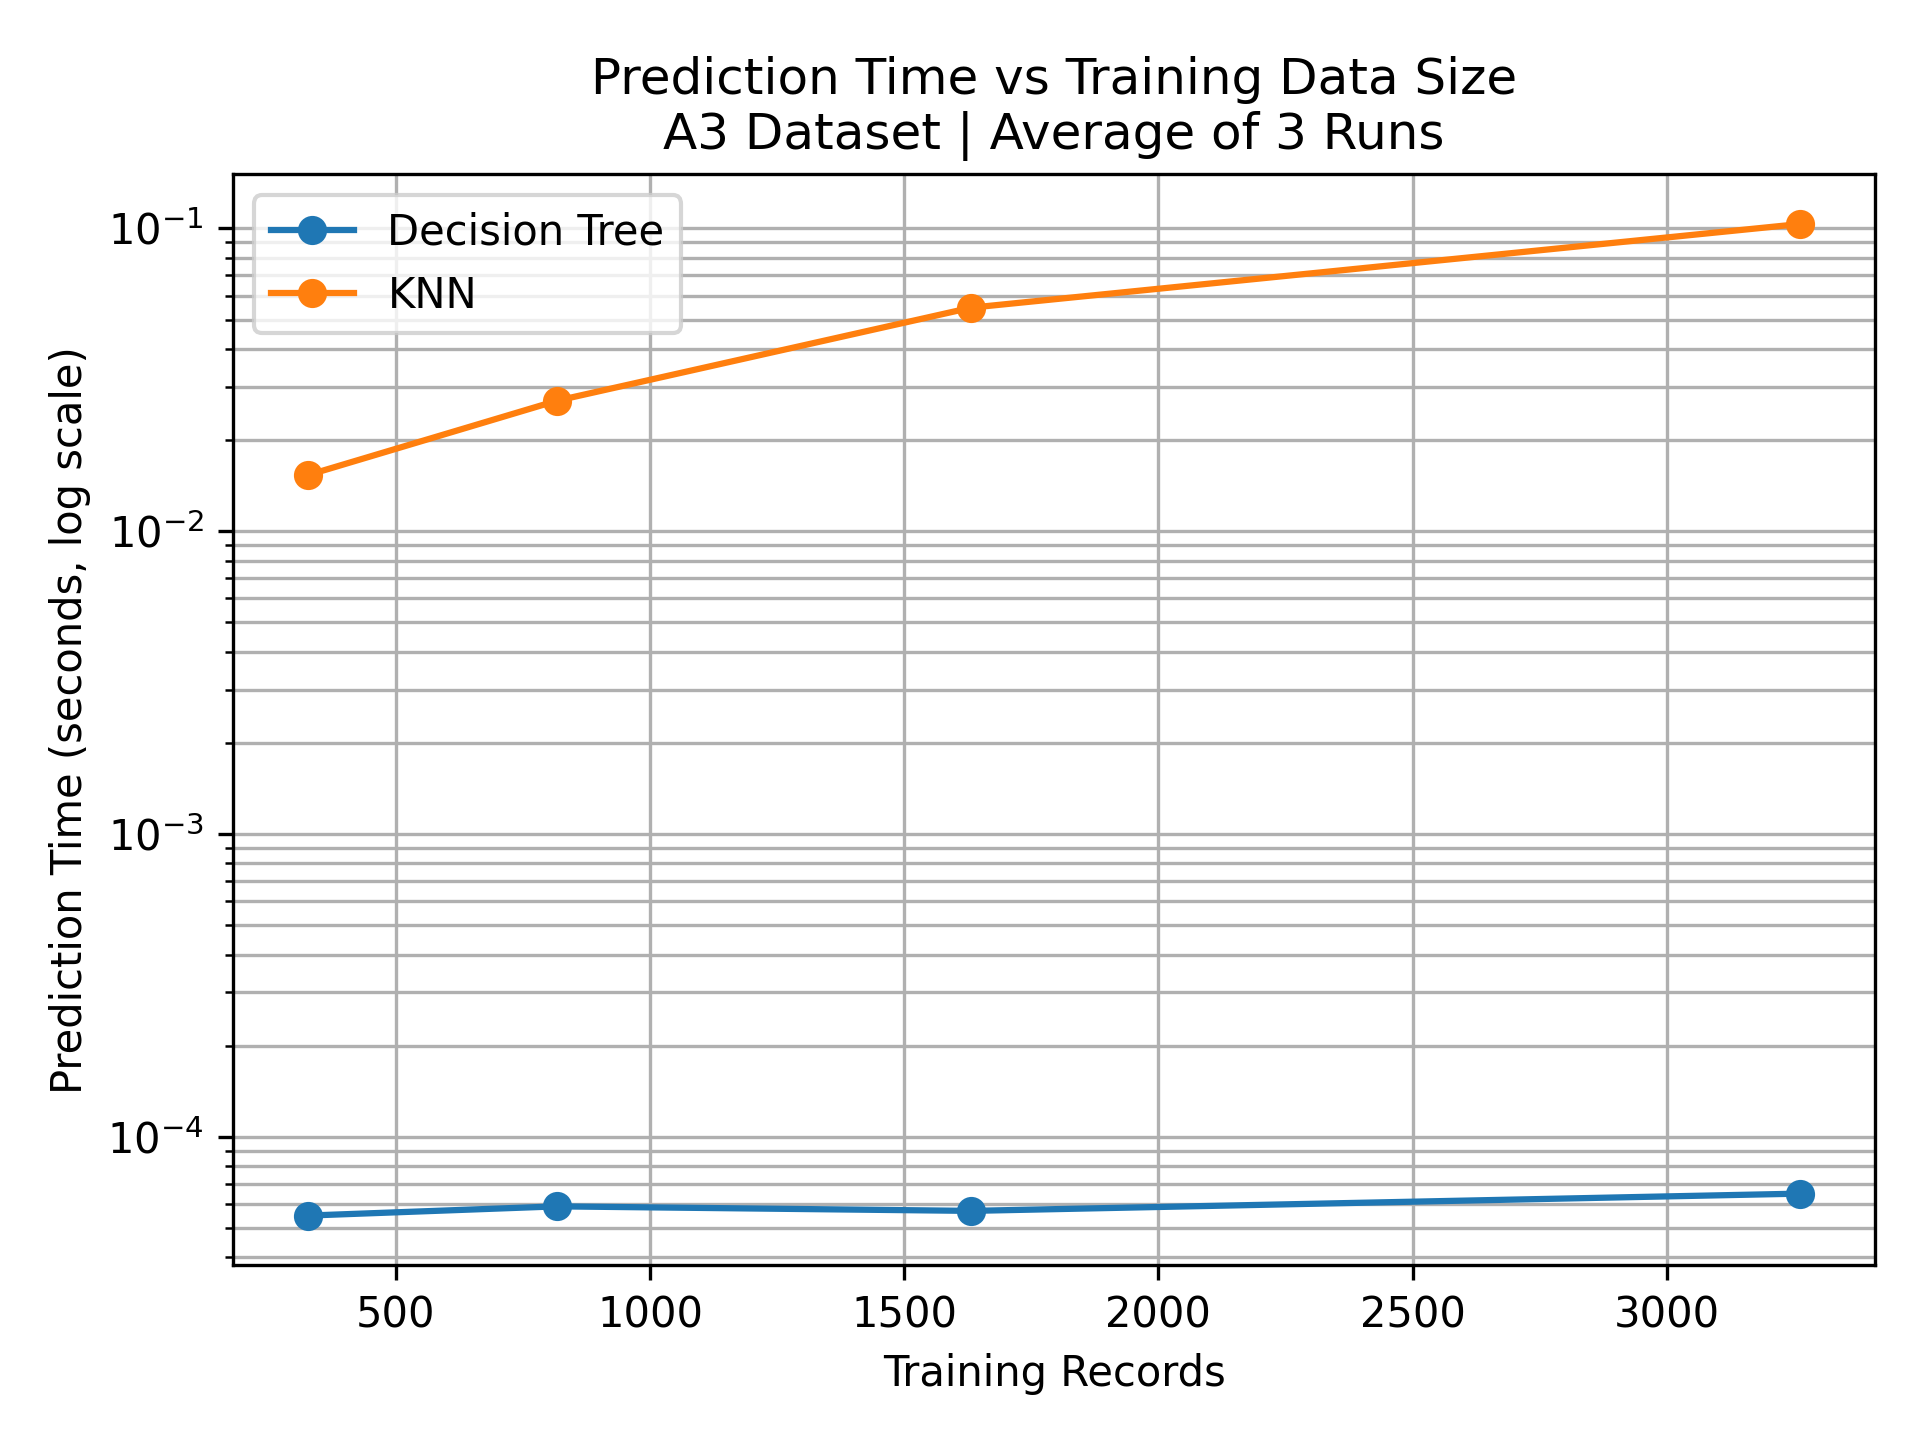
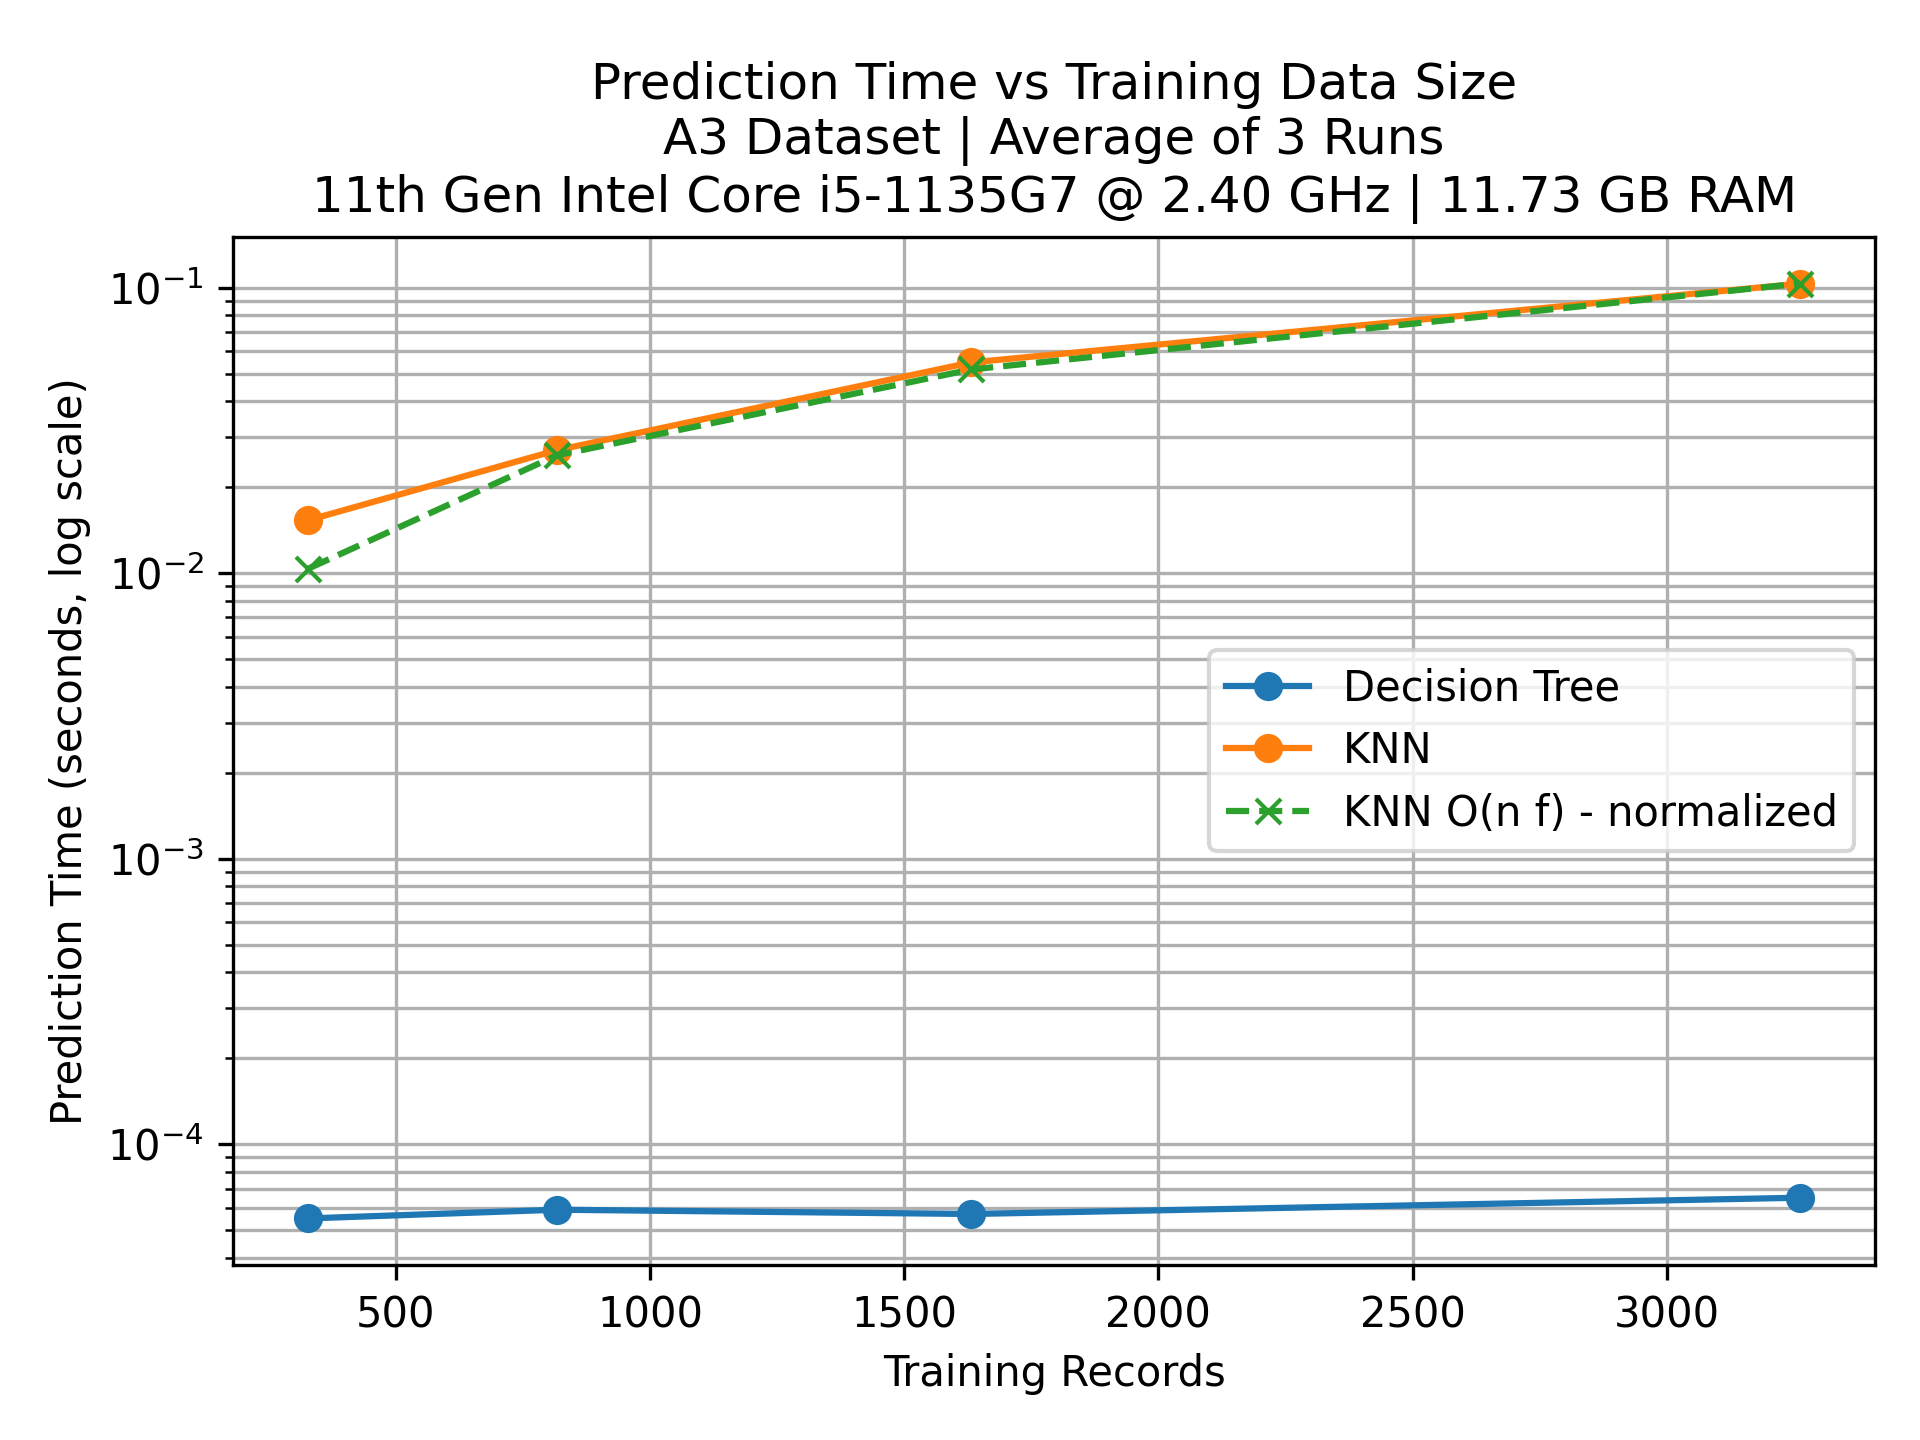
docs(testing): finalize complexity analysis evidence

Changed region(s): [[0.0, 0.0312, 0.9688, 0.7812], [0.0625, 0.7812, 0.9688, 0.875]]

diff --git a/plot_complexity.py b/plot_complexity.py
@@ -1,10 +1,40 @@
+
 import csv
+import json
+import math
 import matplotlib.pyplot as plt
 
+
+# Load experiment metadata
+with open("complexity_metadata_A3.json", "r") as file:
+    metadata = json.load(file)
+
+required_metadata = {
+    "dataset", "repetitions", "cpu", "ram", "features"
+}
+
+if not required_metadata.issubset(metadata):
+    raise ValueError("Metadata file is missing required fields.")
+
+dataset = metadata["dataset"]
+repetitions = metadata["repetitions"]
+cpu = metadata["cpu"]
+ram = metadata["ram"]
+FEATURES = metadata["features"]
+
+
+# Load experiment results
 data = []
 
 with open("complexity_results_A3.csv", newline="") as file:
     reader = csv.DictReader(file)
+
+    required_columns = {
+        "model", "rows", "trainSeconds", "predictSeconds"
+    }
+
+    if not required_columns.issubset(reader.fieldnames or []):
+        raise ValueError("CSV is missing required columns.")
 
     for row in reader:
         data.append({
@@ -14,47 +44,112 @@ with open("complexity_results_A3.csv", newline="") as file:
             "predictSeconds": float(row["predictSeconds"])
         })
 
+if not data:
+    raise ValueError("No experiment results found in CSV.")
+
+
 models = {
     "decision_tree": "Decision Tree",
     "knn": "KNN"
 }
 
+
+def theoretical_growth(rows, complexity):
+    values = []
+
+    for n in rows:
+        if complexity == "nlogn":
+            values.append(n * FEATURES * math.log2(n))
+        elif complexity == "n":
+            values.append(n * FEATURES)
+
+    return values
+
+
+def normalize_curve(theoretical, measured):
+    if not theoretical or not measured or theoretical[-1] == 0:
+        raise ValueError("Cannot normalize an empty or zero-valued curve.")
+
+    scale = measured[-1] / theoretical[-1]
+
+    return [value * scale for value in theoretical]
+
+
+def graph_title(title):
+    return (
+        f"{title}\n"
+        f"{dataset} Dataset | Average of {repetitions} Runs\n"
+        f"{cpu} | {ram} RAM"
+    )
+
+
 # Graph 1: Training time
+plt.figure()
+
 for model, name in models.items():
     results = [r for r in data if r["model"] == model]
     results.sort(key=lambda r: r["rows"])
 
-    plt.plot(
-        [r["rows"] for r in results],
-        [r["trainSeconds"] for r in results],
-        marker="o",
-        label=name
-    )
+    if not results:
+        continue
+
+    rows = [r["rows"] for r in results]
+    times = [r["trainSeconds"] for r in results]
+
+    plt.plot(rows, times, marker="o", label=name)
+
+    if model == "decision_tree":
+        theory = theoretical_growth(rows, "nlogn")
+        theory = normalize_curve(theory, times)
+
+        plt.plot(
+            rows,
+            theory,
+            linestyle="--",
+            marker="x",
+            label="Decision Tree O(n f log n) - normalized"
+        )
 
 plt.xlabel("Training Records")
 plt.ylabel("Training Time (seconds)")
-plt.title("Training Time vs Training Data Size\nA3 Dataset | Average of 3 Runs")
+plt.title(graph_title("Training Time vs Training Data Size"))
 plt.legend()
 plt.grid(True)
 plt.tight_layout()
 plt.savefig("complexity_training.png", dpi=300)
 plt.close()
 
+
 # Graph 2: Prediction time
+plt.figure()
+
 for model, name in models.items():
     results = [r for r in data if r["model"] == model]
     results.sort(key=lambda r: r["rows"])
 
-    plt.plot(
-        [r["rows"] for r in results],
-        [r["predictSeconds"] for r in results],
-        marker="o",
-        label=name
-    )
+    if not results:
+        continue
+
+    rows = [r["rows"] for r in results]
+    times = [r["predictSeconds"] for r in results]
+
+    plt.plot(rows, times, marker="o", label=name)
+
+    if model == "knn":
+        theory = theoretical_growth(rows, "n")
+        theory = normalize_curve(theory, times)
+
+        plt.plot(
+            rows,
+            theory,
+            linestyle="--",
+            marker="x",
+            label="KNN O(n f) - normalized"
+        )
 
 plt.xlabel("Training Records")
 plt.ylabel("Prediction Time (seconds, log scale)")
-plt.title("Prediction Time vs Training Data Size\nA3 Dataset | Average of 3 Runs")
+plt.title(graph_title("Prediction Time vs Training Data Size"))
 plt.yscale("log")
 plt.legend()
 plt.grid(True, which="both")
@@ -62,4 +157,67 @@ plt.tight_layout()
 plt.savefig("complexity_prediction.png", dpi=300)
 plt.close()
 
+
+# Growth-ratio analysis
+growth_results = []
+
+for model, name in models.items():
+    results = [r for r in data if r["model"] == model]
+    results.sort(key=lambda r: r["rows"])
+
+    for metric in ["trainSeconds", "predictSeconds"]:
+        for i in range(1, len(results)):
+            previous = results[i - 1]
+            current = results[i]
+
+            previous_time = previous[metric]
+            current_time = current[metric]
+
+            size_ratio = current["rows"] / previous["rows"]
+
+            time_ratio = (
+                current_time / previous_time
+                if previous_time > 0 else None
+            )
+
+            growth_results.append({
+                "model": model,
+                "metric": metric,
+                "previousRows": previous["rows"],
+                "currentRows": current["rows"],
+                "datasetSizeRatio": round(size_ratio, 3),
+                "executionTimeRatio": (
+                    round(time_ratio, 3)
+                    if time_ratio is not None else ""
+                )
+            })
+
+
+with open("complexity_growth_ratios_A3.csv", "w", newline="") as file:
+    fieldnames = [
+        "model",
+        "metric",
+        "previousRows",
+        "currentRows",
+        "datasetSizeRatio",
+        "executionTimeRatio"
+    ]
+
+    writer = csv.DictWriter(file, fieldnames=fieldnames)
+    writer.writeheader()
+    writer.writerows(growth_results)
+
+
+# Display results
 print("Both complexity graphs generated successfully.")
+print("Growth-ratio analysis saved successfully.")
+
+print("\nGrowth-ratio analysis:")
+
+for result in growth_results:
+    print(
+        f'{result["model"]} | {result["metric"]} | '
+        f'{result["previousRows"]} -> {result["currentRows"]} rows | '
+        f'Dataset x{result["datasetSizeRatio"]} | '
+        f'Execution time x{result["executionTimeRatio"]}'
+    )

diff --git a/docs/TESTING.md b/docs/TESTING.md
@@ -69,6 +69,7 @@ Try each one. The program must give a clear error and must not crash.
 - [ ] Unknown label in the label column
 
 
+
 ## 4. Speed and complexity experiments
 
 ### Experiment configuration
@@ -101,6 +102,7 @@ Try each one. The program must give a clear error and must not crash.
    `model,rows,trainSeconds,predictSeconds`.
 7. Generate training-time and prediction-time graphs using `plot_complexity.py`.
 8. Compare measured trends with theoretical algorithm complexity.
+9. Calculate execution-time growth ratios between consecutive dataset sizes and save them in `complexity_growth_ratios_A3.csv`.
 
 ### Results and observations
 
@@ -127,6 +129,28 @@ Observations:
 - The prediction-time graph uses a logarithmic Y-axis because the prediction times of the two models differ substantially.
 - All configurations used the same 816 test records.
 
+### Growth-ratio analysis
+
+The growth-ratio analysis compares the change in execution time with the change in training dataset size between consecutive configurations.
+
+| Model | Measurement | Observed execution-time growth |
+|---|---|---|
+| Decision Tree | Training | 1.997x, 2.092x, 2.728x |
+| Decision Tree | Prediction | 1.073x, 0.966x, 1.140x |
+| KNN | Training | 2.633x, 1.487x, 1.894x |
+| KNN | Prediction | 1.760x, 2.029x, 1.889x |
+
+The corresponding dataset-size increases were approximately 2.0x to 2.5x.
+
+Observations:
+
+- Decision Tree training time generally increased with dataset size, with a larger increase in the final interval.
+- Decision Tree prediction time remained relatively stable.
+- KNN prediction time increased approximately in proportion to dataset size.
+- KNN training measurements increased, although its training operation primarily involves storing the training records.
+
+These ratios are based on four dataset sizes and should be treated as experimental observations, not proof of asymptotic complexity.
+
 ### Theoretical complexity
 
 Let `n` represent the number of training records, `f` the number of features, and `h` the height of the Decision Tree.
@@ -137,6 +161,8 @@ Let `n` represent the number of training records, `f` the number of features, an
 | KNN | Stores training records | Approximately O(n f) per query on average in this implementation |
 
 The KNN implementation uses `nth_element` to select the nearest neighbours. Its prediction work therefore grows with the number of stored training records.
+
+The theoretical growth curves in the graphs are normalized to the final measured execution time. They illustrate theoretical growth patterns and are not actual predicted execution times.
 
 These theoretical complexities describe expected algorithmic behaviour; the measured execution times are practical observations and do not prove asymptotic complexity.
 
@@ -150,14 +176,17 @@ Memory usage was not returned by the backend (`memoryBytes: null`) and is theref
 - Results are based on one dataset and one machine.
 - Only average timings were returned; individual repetition timings and variation were not available.
 - Memory usage could not be measured because the backend returned `memoryBytes: null`.
+- Four dataset sizes are insufficient to establish asymptotic complexity experimentally.
 
 ### Evidence files
 
 - `complexity_A3_job5_2026-11-14.json` — raw backend experiment response
 - `complexity_results_A3.csv` — recorded average measurements
+- `complexity_metadata_A3.json` — experiment configuration and hardware details
 - `complexity_training.png` — training-time graph
 - `complexity_prediction.png` — prediction-time graph
-- `plot_complexity.py` — graph-generation script
+- `complexity_growth_ratios_A3.csv` — execution-time growth-ratio analysis
+- `plot_complexity.py` — graph-generation and analysis script
 
 ## 5. Definition of done
 
